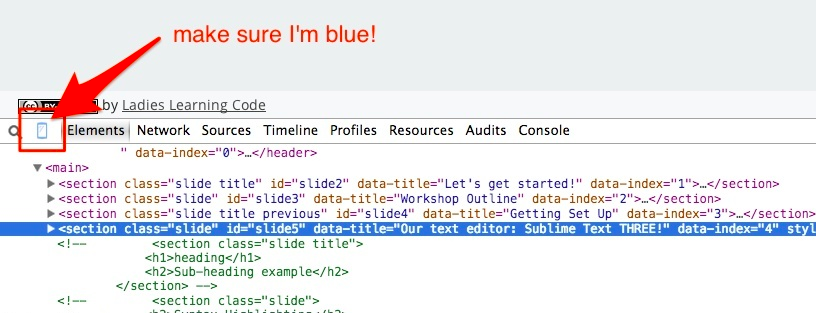
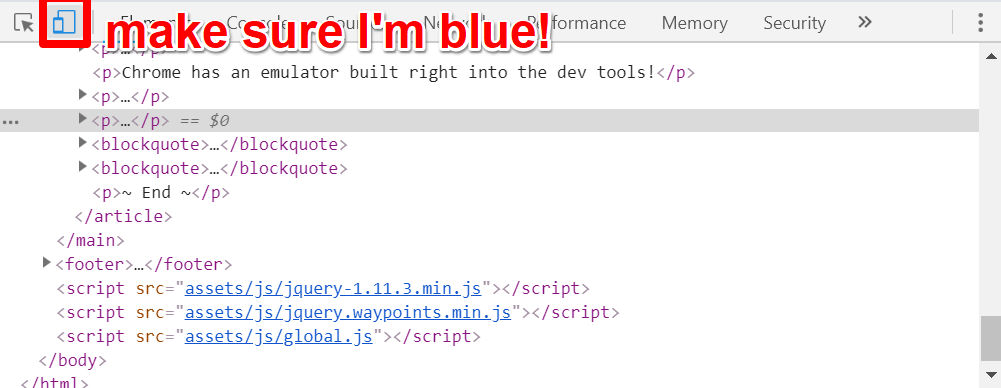
Updating emulator screenshot, adding more resources

diff --git a/_lessons/module-4.2.md b/_lessons/module-4.2.md
@@ -315,34 +315,31 @@ These are just general guidelines. There are no set-in-stone rules, because new 
 > In the `<head>` section, a media query has already been included. Add 2 more media queries to target mobile and tablet.
 > Change the background color and test it to make sure it works!
 
-**Pro-tip:** Apply `outlines` in the CSS to see which media query you should be adding your styles to. Outlines are similar to the `border` property, but have no affect on the layout. It will look something like this in your CSS:
-
     @media (max-width: 768px) {
-      /*
       * { // select all
         outline: 1px solid red;
-      } */
+      }
     }  -- end 768px -- */
 
-## RWD Best Practices
+**Pro-tip:** Apply `outlines` in the CSS to see which media query you should be adding your styles to. Outlines are similar to the `border` property, but have no affect on the layout. It will look something like this in your CSS:
 
-Try not to use too many breakpoints! Up to six should be sufficient for complex designs.
+## Best Practices
 
-If you find that you have two media queries that are close in size to one another, see if you can move the styles from one or the other.
+Try not to use too many breakpoints! If you find that you have two media queries that are close in size to one another, see if you can move the styles from one or the other.
 
-When writing media queries and adding responsive changes, only add the specific CSS property that needs to be changed. Do not repeat styles.
+When writing media queries and adding responsive changes, only add the specific CSS property that needs to be changed. No need to repeat styles.
 
     .wrapper {
+      width: 100%;
       max-width: 1140px;
-      font-family: helvetica, arial, sans-serif;
+      font-family: Helvetica, Arial, sans-serif;
       background: white;
-      padding: 20px;
+      padding: 40px;
     }
 
     @media (max-width: 940px) {
       .wrapper {
-        max-width: 900px;
-        padding-top: 10px;
+        padding: 20px 30px;
       }
     }
 
@@ -354,7 +351,7 @@ Chrome has an emulator built right into the dev tools!
 
 ![]({{ site.img }}/module3/chrome-emulator.png)
 
-There are also many many other tools, [free](http://lab.maltewassermann.com/viewport-resizer/) and [paid](https://www.browserstack.com/responsive), available for testing and emulating multiple devices and device sizes.
+
 
 
 >## EXERCISE: Responsive Web page
@@ -363,11 +360,20 @@ There are also many many other tools, [free](http://lab.maltewassermann.com/view
 > Follow the instructions in the comments in the `<head>` of **responsive.html** to make the 3 columns fluid and responsive.
 
 
-
 >## EXERCISE: Making Your Website Responsive
-> Continue working on your website's layout.If you have it working on desktop,try creating some media queries to improve the layout on different widths.
->**Don't forget your Viewport Metatag!**
->
->Does your website design call for any background images? Go ahead and try it out on your project!
+> Continue working on your website's layout. If you have it working on desktop, try creating some media queries to improve the layout as you resize the browser.
+>**Don't forget the [Viewport Metatag](#viewport-meta-tag)!**
+>* Change 2 column layouts into a single column
+>* Decrease the font size of headings
+>* Want a mobile menu? We will cover this in the jQuery module!
+
+
+Responsive Design Resources
+
+* [Free device emulator](http://lab.maltewassermann.com/viewport-resizer/)
+* [Responsive images](https://internetingishard.com/html-and-css/responsive-images/)
+* [Responsive design framework: Foundation](https://foundation.zurb.com/)
+* [Try a book! From the A Book Apart series](https://abookapart.com/products/responsive-web-design)
+* [10 Responsive design problems and fixes](http://uxmag.com/articles/10-responsive-design-problems-and-fixes)
 
 ~ End ~
